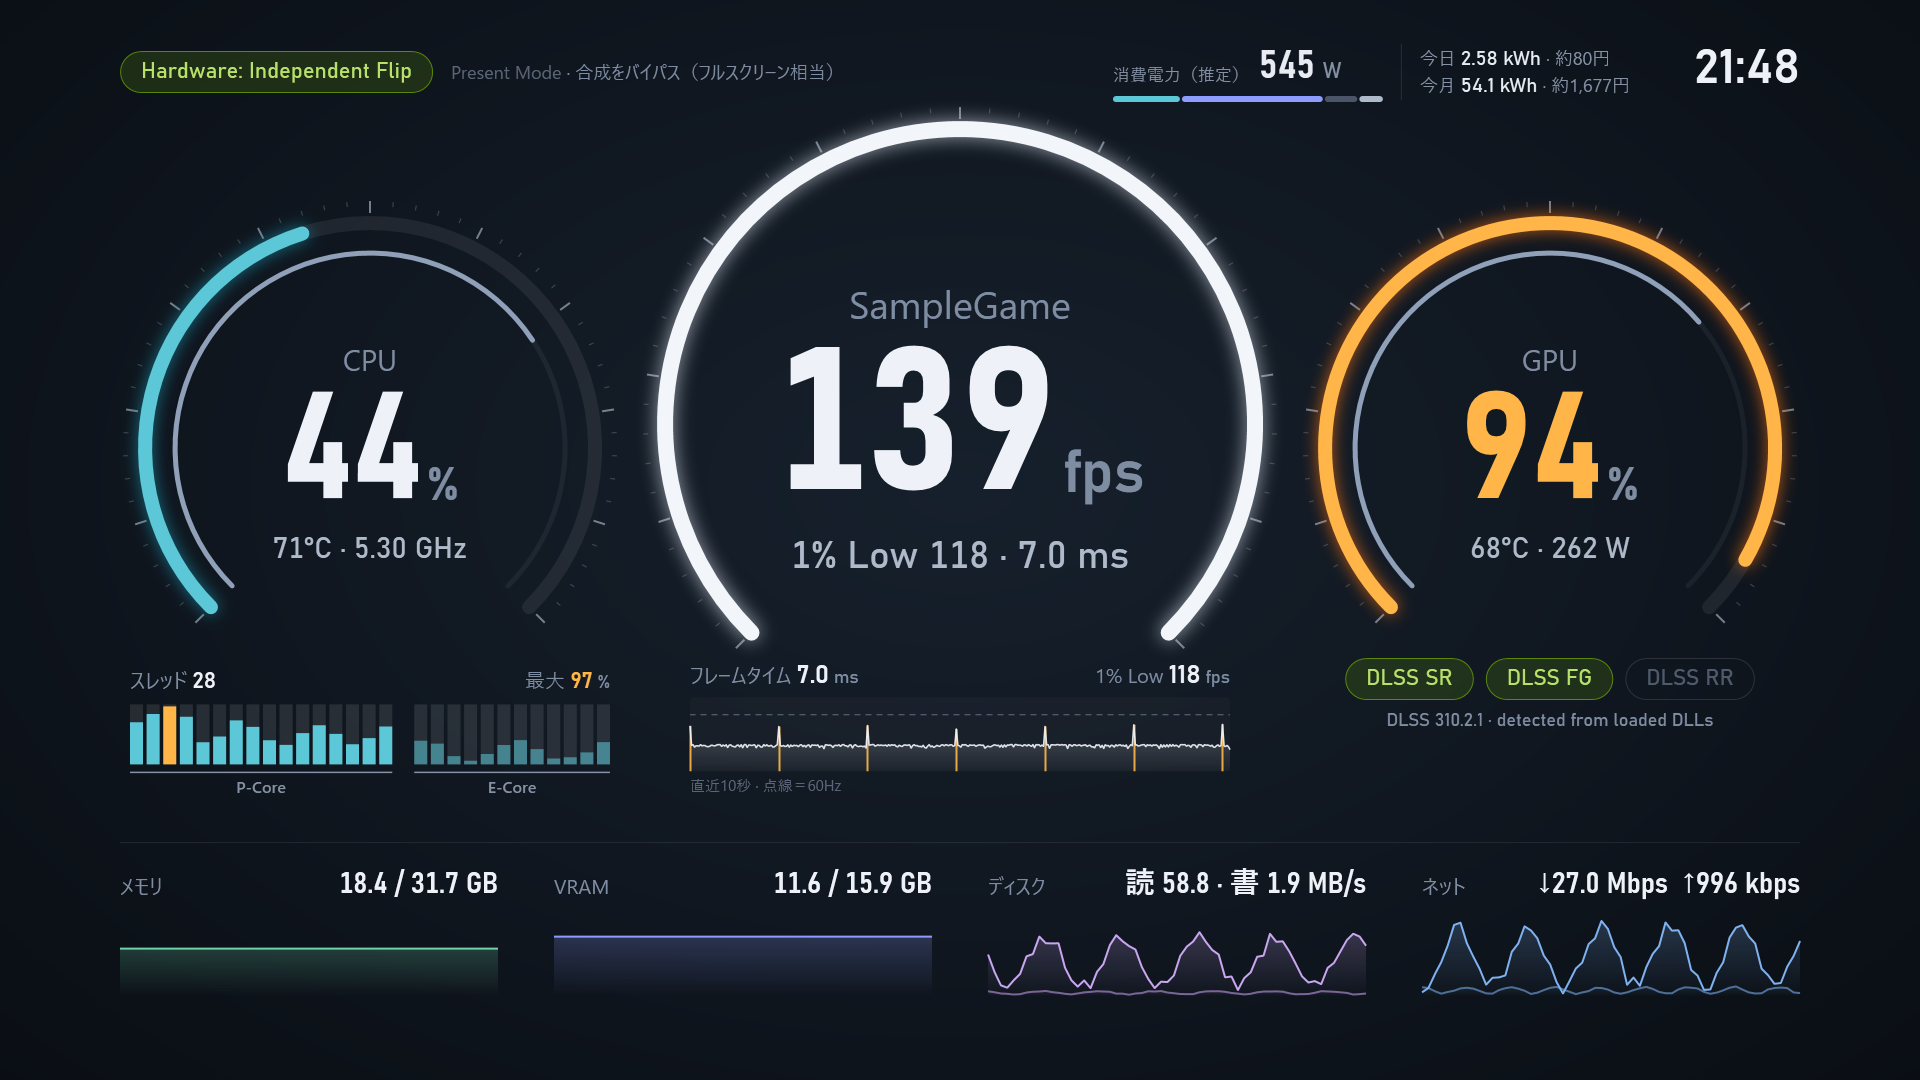
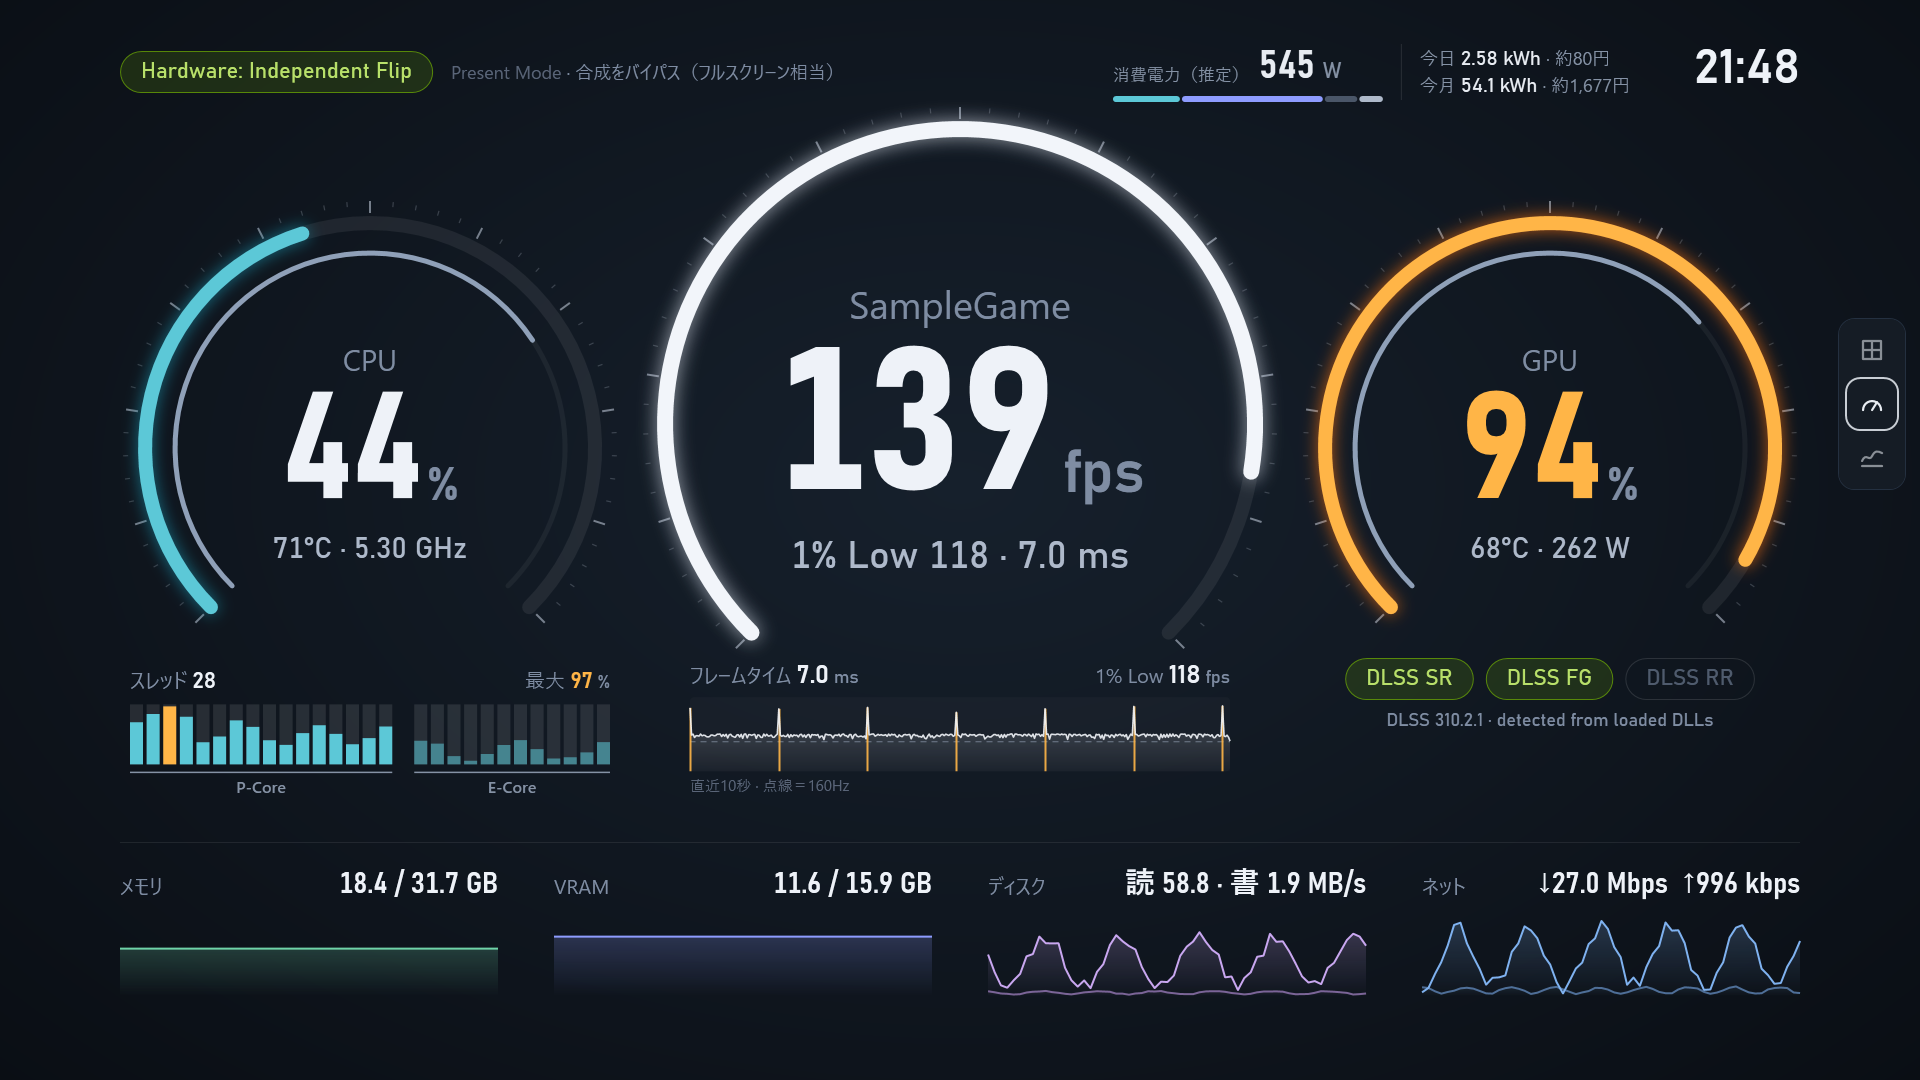
画面の右端にレイアウト切替ボタン（標準・計器盤・オーロラ）を追加し、画面写真ツールが本体を起動しないようにする
- Controls/LayoutPicker：テーマ切替と同じ形の縦3ボタン。オーロラはテーマ切替の下、計器盤は同じ位置に常時、
  標準はマウスが画面の上にあるときだけ出す（モックアップ mockups/mode-switch-B.png）
- tools/Screenshots が作る App でも WPF が OnStartup を呼び、本体のウィンドウや二重起動の確認まで動いていた
  （「No VelopackLocator has been set」や「すでに起動しています」の原因）。Program.Main から起動したときだけ本体を動かす

diff --git a/mockups/mode-switch-C.html b/mockups/mode-switch-C.html
@@ -1,0 +1,19 @@
+<!doctype html><html lang="ja"><head><meta charset="utf-8"><link rel="stylesheet" href="mode-switch.css"><style>
+.dim{position:absolute;inset:0;background:rgba(5,7,14,.45)}
+.panel{position:absolute;left:50%;transform:translateX(-50%);top:744px;padding:22px 26px 20px;border-radius:24px;display:flex;gap:22px}
+.t{width:300px;display:flex;flex-direction:column;gap:10px;align-items:center;font-size:19px;color:rgba(244,247,251,.7)}
+.t .img{width:300px;height:169px;border-radius:12px;background-size:cover;border:2px solid rgba(255,255,255,.12)}
+.t.on{color:#F4F7FB}.t.on .img{border-color:#8E9CFF;box-shadow:0 0 0 3px rgba(142,156,255,.35)}
+.t .auto{display:flex;align-items:center;justify-content:center;flex-direction:column;gap:6px;background:rgba(255,255,255,.05);font-size:17px;color:rgba(244,247,251,.6);text-align:center;line-height:1.5}
+.hint{position:absolute;left:50%;transform:translateX(-50%);top:1044px;font-size:15px;color:rgba(244,247,251,.5)}
+</style></head><body>
+<div class="dim"></div>
+<div class="cap"><b>案C</b>普段は何も出さず、マウスを画面の下端に寄せたときだけ写真つきの一覧が出る（5秒で自動で消える）</div>
+<div class="panel glass">
+ <div class="t"><div class="img" style="background-image:url(../docs/images/classic.png)"></div>標準</div>
+ <div class="t"><div class="img" style="background-image:url(../docs/images/gauge.png)"></div>計器盤</div>
+ <div class="t on"><div class="img" style="background-image:url(../docs/images/aurora-night.png)"></div>オーロラ</div>
+ <div class="t"><div class="img auto"><span style="font-size:24px;color:#F4F7FB">自動</span>ゲーム中 → 計器盤<br>それ以外 → オーロラ</div>自動</div>
+</div>
+<div class="hint">クリックで切り替え　・　L キーでも順に切り替え</div>
+</body></html>

diff --git a/mockups/mode-switch-B.html b/mockups/mode-switch-B.html
@@ -1,0 +1,14 @@
+<!doctype html><html lang="ja"><head><meta charset="utf-8"><link rel="stylesheet" href="mode-switch.css"><style>
+.dock{position:absolute;left:1844px;top:318px;width:56px;padding:6px 0;border-radius:14px;display:flex;flex-direction:column;align-items:center;gap:8px}
+.dock .b{width:44px;height:44px;border-radius:10px;display:flex;align-items:center;justify-content:center;color:rgba(244,247,251,.6);background:rgba(255,255,255,.05)}
+.dock .b.on{color:#F4F7FB;background:rgba(142,156,255,.3);box-shadow:inset 0 0 0 2px rgba(244,247,251,.85)}
+.dock .b.hov{color:#F4F7FB;background:rgba(255,255,255,.14)}
+.tip{position:absolute;left:1714px;top:384px;height:36px;padding:0 14px;border-radius:8px;display:flex;align-items:center;font-size:17px}
+.lbl{position:absolute;left:1700px;top:300px;font-size:15px;color:rgba(244,247,251,.5)}
+</style></head><body>
+<div class="cap"><b>案B</b>右端のテーマボタン（朝・昼・夕・夜）の下にレイアウトの3ボタンを並べる。標準・計器盤でも同じ位置に出す</div>
+<div class="dock glass">
+ <div class="b"><svg class="ic" width="22" height="22" viewBox="0 0 24 24"><rect x="3" y="4" width="18" height="16" rx="2"/><path d="M7 15v-3M11 15V9M15 15v-5M19 15"/></svg></div><div class="b hov"><svg class="ic" width="22" height="22" viewBox="0 0 24 24"><path d="M4 17a8 8 0 1 1 16 0"/><path d="M12 17l4-5"/></svg></div><div class="b on"><svg class="ic" width="22" height="22" viewBox="0 0 24 24"><path d="M3 16c3-6 6 2 9-4s6-2 9-6"/><path d="M3 20h18"/></svg></div>
+</div>
+<div class="tip glass">計器盤</div>
+</body></html>

diff --git a/mockups/mode-switch-A.html b/mockups/mode-switch-A.html
@@ -1,0 +1,11 @@
+<!doctype html><html lang="ja"><head><meta charset="utf-8"><link rel="stylesheet" href="mode-switch.css"><style>
+.bar{position:absolute;left:50%;transform:translateX(-50%);top:1014px;height:50px;display:flex;align-items:center;gap:4px;padding:4px;border-radius:25px}
+.bar span{display:flex;align-items:center;gap:8px;height:40px;padding:0 20px;border-radius:20px;font-size:18px;color:rgba(244,247,251,.6)}
+.bar span.on{background:rgba(142,156,255,.28);color:#F4F7FB;box-shadow:inset 0 0 0 1px rgba(142,156,255,.6)}
+.bar .sep{width:1px;height:24px;background:rgba(255,255,255,.14);padding:0;margin:0 4px}
+</style></head><body>
+<div class="cap"><b>案A</b>画面の下中央に常に小さく表示。クリックで切り替え（右は「自動」：ゲーム中は計器盤）</div>
+<div class="bar glass">
+ <span><svg class="ic" width="22" height="22" viewBox="0 0 24 24"><rect x="3" y="4" width="18" height="16" rx="2"/><path d="M7 15v-3M11 15V9M15 15v-5M19 15"/></svg>標準</span><span><svg class="ic" width="22" height="22" viewBox="0 0 24 24"><path d="M4 17a8 8 0 1 1 16 0"/><path d="M12 17l4-5"/></svg>計器盤</span><span class="on"><svg class="ic" width="22" height="22" viewBox="0 0 24 24"><path d="M3 16c3-6 6 2 9-4s6-2 9-6"/><path d="M3 20h18"/></svg>オーロラ</span><span class="sep"></span><span>自動</span>
+</div>
+</body></html>

diff --git a/mockups/mode-switch.css b/mockups/mode-switch.css
@@ -1,0 +1,7 @@
+*{box-sizing:border-box;margin:0;padding:0}
+body{width:1920px;height:1080px;overflow:hidden;background:#070A12 url(../docs/images/aurora-night.png) 0 0/1920px 1080px no-repeat;font-family:"Yu Gothic UI",sans-serif;color:#F4F7FB;position:relative}
+.num{font-family:Bahnschrift,sans-serif}
+.cap{position:absolute;left:40px;top:22px;font-size:22px;color:rgba(244,247,251,.8);background:rgba(7,10,18,.75);padding:8px 16px;border-radius:10px;border:1px solid rgba(255,183,71,.5)}
+.cap b{color:#FFB547;margin-right:12px}
+.glass{background:rgba(22,24,40,.82);border:1px solid rgba(255,255,255,.14);backdrop-filter:blur(8px)}
+.ic{stroke:currentColor;fill:none;stroke-width:2;stroke-linecap:round;stroke-linejoin:round}

diff --git a/Views/GaugeView.xaml b/Views/GaugeView.xaml
@@ -231,5 +231,8 @@
             <c:HistoryChart Grid.Column="6" x:Name="NetChart" Grid.Row="1" Margin="0,12,0,0" Stroke="{StaticResource NetColor}"
                             SecondStroke="{StaticResource NetUpColor}" Max="0" ShowGrid="False" FillOpacity="0.22" LineThickness="2"/>
         </Grid>
+
+        <!-- 右端のレイアウト切替（オーロラのテーマ切替の下と同じ位置） -->
+        <c:LayoutPicker x:Name="LayoutPicker" Current="gauge" Canvas.Right="14" Canvas.Top="318"/>
     </Canvas>
 </UserControl>

diff --git a/Views/AuroraView.xaml b/Views/AuroraView.xaml
@@ -864,6 +864,8 @@
                     </Border>
                 </StackPanel>
             </Border>
+            <!-- レイアウト切替（標準・計器盤・オーロラ）。色はコードでテーマに合わせる -->
+            <c:LayoutPicker x:Name="LayoutPicker" Current="aurora" Margin="0,16,0,0"/>
         </StackPanel>
 
         <!-- ============ 画面全体を暗くする幕（夜、および auroraDayBrightness を下げたときの朝・昼） -->

diff --git a/Views/ClassicView.xaml b/Views/ClassicView.xaml
@@ -250,5 +250,9 @@
                 </Border>
             </Grid>
         </Grid>
+
+        <!-- 右端のレイアウト切替。空きがないので、マウスが画面の上にあるときだけ出す -->
+        <c:LayoutPicker x:Name="LayoutPicker" Current="classic" HorizontalAlignment="Right" VerticalAlignment="Top"
+                        Margin="0,318,14,0" Visibility="Hidden"/>
     </Grid>
 </UserControl>

diff --git a/Controls/LayoutPicker.cs b/Controls/LayoutPicker.cs
@@ -1,0 +1,106 @@
+using System;
+using System.Windows;
+using System.Windows.Controls;
+using System.Windows.Input;
+using System.Windows.Media;
+using System.Windows.Shapes;
+
+namespace MyDashboard.Controls;
+
+/// <summary>
+/// 画面の右端に縦に並ぶレイアウト切替（標準・計器盤・オーロラ）。オーロラのテーマ切替と同じ形。
+/// いまのレイアウトを枠で囲み、ほかは薄くする。クリックで Picked が呼ばれる。
+/// </summary>
+public sealed class LayoutPicker : Border
+{
+    private static readonly (string Name, string Tip, string Icon)[] Items =
+    {
+        ("classic", "標準", "M5,5 L23,5 L23,23 L5,23 Z M14,5 L14,23 M5,14 L23,14"),
+        ("gauge", "計器盤", "M5,20 A9,9 0 1 1 23,20 M14,20 L19,12"),
+        ("aurora", "オーロラ", "M4,17 C8,8 11,18 14,12 C17,6 20,7 24,9 M4,22 L24,22"),
+    };
+
+    private readonly Border[] _buttons;
+    private readonly Path[] _icons;
+    private string _current = "";
+
+    /// <summary>ボタンが押されたときに、そのレイアウトの名前（classic / gauge / aurora）で呼ばれる。</summary>
+    public event Action<string>? Picked;
+
+    public LayoutPicker()
+    {
+        Width = 68;
+        CornerRadius = new CornerRadius(16);
+        BorderThickness = new Thickness(1);
+        Padding = new Thickness(6, 4, 6, 4);
+        Background = new SolidColorBrush(Color.FromArgb(0xE6, 0x16, 0x1D, 0x26));
+        BorderBrush = new SolidColorBrush(Color.FromRgb(0x24, 0x30, 0x40));
+
+        var stack = new StackPanel();
+        _buttons = new Border[Items.Length];
+        _icons = new Path[Items.Length];
+        for (int i = 0; i < Items.Length; i++)
+        {
+            var (name, tip, icon) = Items[i];
+            var path = new Path
+            {
+                Width = 28, Height = 28, Stretch = Stretch.None, StrokeThickness = 2.2,
+                StrokeStartLineCap = PenLineCap.Round, StrokeEndLineCap = PenLineCap.Round, StrokeLineJoin = PenLineJoin.Round,
+                Stroke = new SolidColorBrush(Color.FromRgb(0xE8, 0xEC, 0xF2)),
+                Data = Geometry.Parse(icon),
+            };
+            var button = new Border
+            {
+                Tag = name, ToolTip = tip, Width = 54, Height = 54, CornerRadius = new CornerRadius(14),
+                BorderBrush = new SolidColorBrush(Color.FromArgb(0xD9, 0xE8, 0xEC, 0xF2)),
+                Background = Brushes.Transparent, Cursor = Cursors.Hand, Child = path,
+            };
+            button.MouseLeftButtonDown += (_, e) => e.Handled = true;
+            button.MouseLeftButtonUp += (s, e) =>
+            {
+                e.Handled = true;
+                var picked = (string)((Border)s).Tag;
+                // レイアウトの差し替えはマウスの処理が終わってから
+                if (picked != _current) Dispatcher.BeginInvoke(() => Picked?.Invoke(picked));
+            };
+            button.MouseEnter += (_, _) => Refresh();
+            button.MouseLeave += (_, _) => Refresh();
+            _buttons[i] = button;
+            _icons[i] = path;
+            stack.Children.Add(button);
+        }
+        Child = stack;
+        Refresh();
+    }
+
+    /// <summary>いま表示しているレイアウトの名前。</summary>
+    public string Current
+    {
+        get => _current;
+        set { _current = value; Refresh(); }
+    }
+
+    /// <summary>
+    /// オーロラの時間帯テーマに色を合わせる（リソースの差し替えについていくよう、コードから参照を張る）。
+    /// </summary>
+    public void UseAuroraColors()
+    {
+        SetResourceReference(BackgroundProperty, "AGlass");
+        SetResourceReference(BorderBrushProperty, "ALine");
+        foreach (var icon in _icons) icon.SetResourceReference(Shape.StrokeProperty, "AText");
+        foreach (var button in _buttons) button.SetResourceReference(BorderBrushProperty, "AT85");
+        Refresh();
+    }
+
+    private void Refresh()
+    {
+        foreach (var button in _buttons)
+        {
+            // 枠の色はテーマについていく参照のまま残し、太さで出し入れする（中身がずれないよう余白で埋める）
+            bool on = (string)button.Tag == _current;
+            button.BorderThickness = new Thickness(on ? 2 : 0);
+            button.Padding = new Thickness(on ? 0 : 2);
+            button.Opacity = on ? 1 : button.IsMouseOver ? 0.85 : 0.55;
+        }
+    }
+}

diff --git a/App.xaml.cs b/App.xaml.cs
@@ -10,8 +10,21 @@ public partial class App : Application
 {
     private Mutex? _single;
 
+    /// <summary>
+    /// Program.Main から起動した本物のダッシュボードのときだけ true。
+    /// 画面写真のツール（tools/Screenshots）は色や文字スタイルのためだけに App を作るが、WPF は Run を呼ばなくても
+    /// OnStartup を呼ぶので、そのときに本体（二重起動の確認・ウィンドウ・更新の確認）まで動かさないようにする。
+    /// </summary>
+    public bool IsDashboard { get; init; }
+
     protected override void OnStartup(StartupEventArgs e)
     {
+        if (!IsDashboard)
+        {
+            base.OnStartup(e);
+            return;
+        }
+
         // 二重起動を防ぐ（PresentMon セッションが衝突するため）
         _single = new Mutex(true, @"Global\MyDashboard.SingleInstance", out bool created);
         if (!created)

diff --git a/Views/ViewSupport.cs b/Views/ViewSupport.cs
@@ -38,6 +38,9 @@ public sealed class ViewContext
     /// <summary>再生・曲送りボタン用。</summary>
     public MediaService? Media { get; set; }
 
+    /// <summary>画面の右端のレイアウト切替ボタンから呼ぶ（classic / gauge / aurora）。</summary>
+    public Action<string>? SwitchLayout { get; set; }
+
     public ViewContext(AppSettings settings) => Settings = settings;
 
     /// <summary>グラフに保持する点の数（historySeconds ÷ 更新間隔）。</summary>

diff --git a/Views/ClassicView.xaml.cs b/Views/ClassicView.xaml.cs
@@ -30,6 +30,9 @@ public partial class ClassicView : UserControl, IDashboardView
         Threads.Crit = ViewContext.Res("Crit");
         Threads.WarnAt = ctx.Settings.LoadWarn;
         Threads.CritAt = ctx.Settings.LoadCrit;
+        LayoutPicker.Picked += name => _ctx.SwitchLayout?.Invoke(name);
+        MouseEnter += (_, _) => LayoutPicker.Visibility = Visibility.Visible;
+        MouseLeave += (_, _) => LayoutPicker.Visibility = Visibility.Hidden;
     }
 
     public void UpdateClock(DateTime now)

diff --git a/Views/AuroraView.xaml.cs b/Views/AuroraView.xaml.cs
@@ -107,6 +107,8 @@ public partial class AuroraView : UserControl, IDashboardView
             return (e, fill);
         }).ToArray();
         InitThemePicker();
+        LayoutPicker.UseAuroraColors();
+        LayoutPicker.Picked += name => _ctx.SwitchLayout?.Invoke(name);
         UpdateTheme(DateTime.Now, force: true);
         foreach (var chart in new[] { CpuChart, GpuChart, MemChart, VramChart, NetChart })
             chart.SetCapacity(Math.Max(20, ctx.HistoryPoints / 2));
